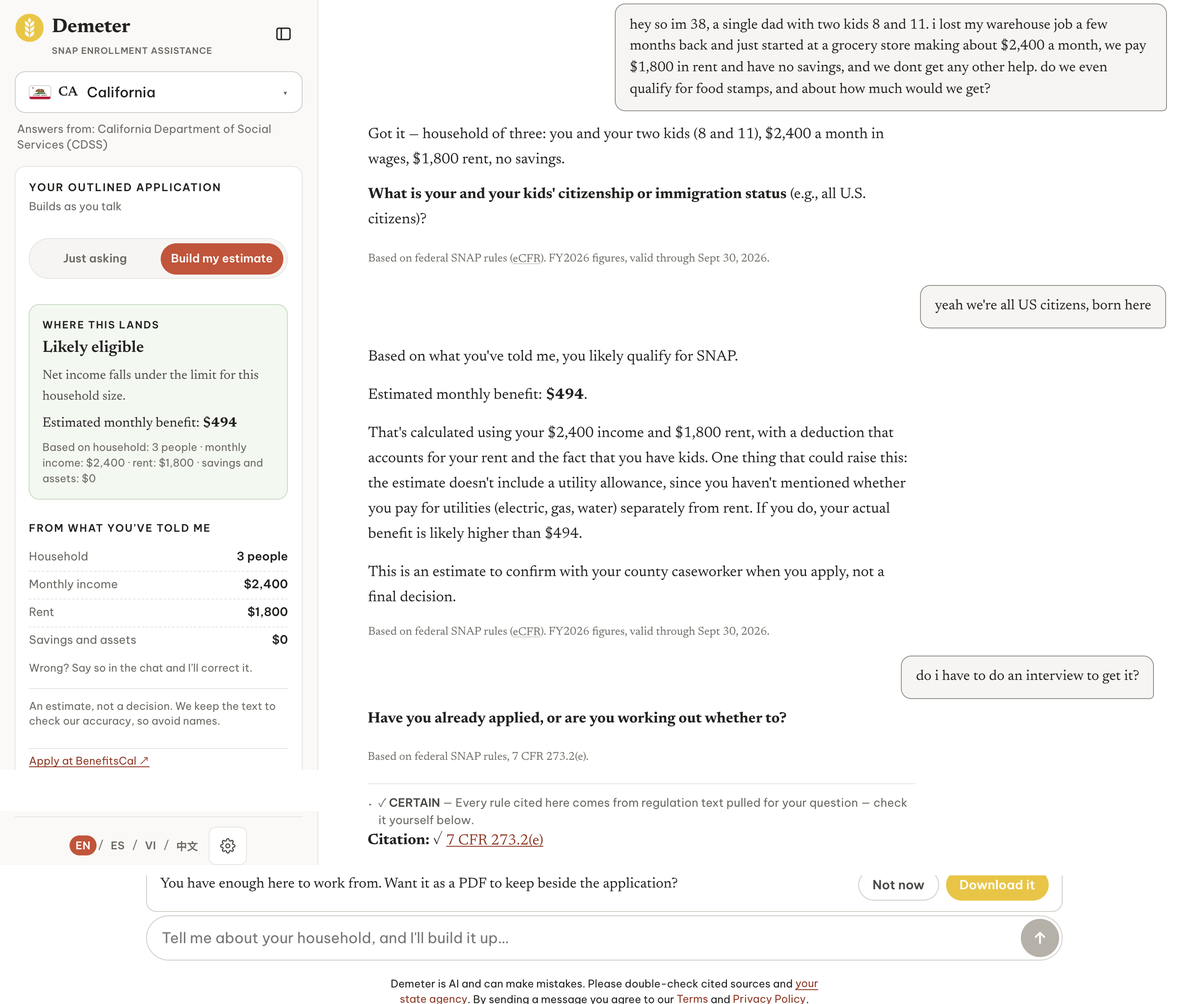
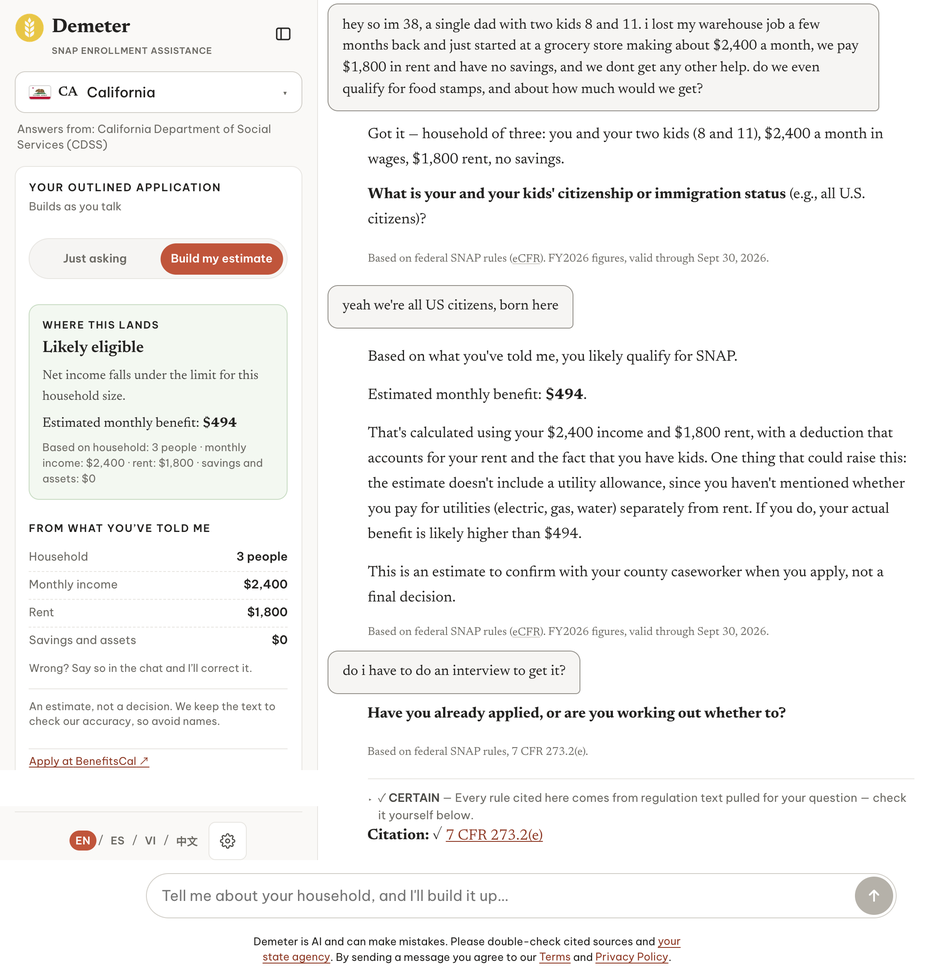
style(cra-artifact): copy + layout pass across all four pages; tighten page-3 demo
Page 1: bigger PUMA bar labels, larger/darker locator map, breathing room
under the stat block; SNAP explainer header carries the full program name;
"SNAP enrollment's impact on household finances".
Page 2: fold the thesis into "The program."; "Why Civica" -> "Why these
numbers"; pooled attribution reads pro rata (not "double-counted"); point
Documentation at the page-4 sample.
Page 3: head "The product, as delivered" -> "The assistant at work"; drop
"not a general chatbot"; Harvard/Baker affiliation reworded. Recompose the
demo: PDF-offer bubble removed, user bubbles left-aligned so the transcript
reads straight down, empty right column cropped out (input box kept via an
interior splice, disclaimer re-centred). Drop the "Answered plainly" legend
item (8 left), shrink the QR, and grow the demo to fill more of the column.
Page 4: "sample & methodology"; external table border; Baker-grant
assumption note (N=800); vary the Measurement sub-heads; add a "Reconciled
to a federal series" methodology bullet; Reporting names the CRA investment
test. Refit page-4 spacing after the added content.

diff --git a/tools/cra-artifact/templates/artifact.html b/tools/cra-artifact/templates/artifact.html
@@ -47,12 +47,12 @@
   table.core { width:100%; border-collapse:collapse; font-variant-numeric:tabular-nums; }
   table.core caption { text-align:left; }
   .core-cap { font-size:7.6pt; letter-spacing:.11em; text-transform:uppercase; font-weight:600; color:var(--muted); margin-bottom:4px; }
-  table.core td { padding:6px 2px; border-bottom:1px solid var(--rule); vertical-align:baseline; }
+  table.core td { padding:11px 2px; border-bottom:1px solid var(--rule); vertical-align:baseline; }
   table.core tr:last-child td { border-bottom:none; }
   table.core td.k { font-size:9.5pt; color:var(--body); white-space:nowrap; }
   table.core td.v { text-align:right; font-family:'Newsreader',serif; font-size:14pt; font-weight:600; color:var(--ink); white-space:nowrap; padding-left:8px; }
   table.core td.v small { font-family:'Be Vietnam Pro',sans-serif; font-size:8pt; font-weight:500; color:var(--muted); display:block; margin-top:1px; }
-  table.core tr.ask td { border-top:2px solid var(--accent); padding-top:9px; }
+  table.core tr.ask td { border-top:2px solid var(--accent); padding-top:15px; }
   table.core tr.ask td.k { color:var(--accent-deep); font-weight:600; text-transform:uppercase; letter-spacing:.06em; font-size:8.4pt; white-space:normal; padding-right:10px; }
   table.core tr.ask td.v { color:var(--accent-deep); font-size:18.5pt; }
   /* per-county unmet-need breakdown (replaces the flat AA choropleth):
@@ -72,7 +72,7 @@
   .geomap svg { width:100%; height:auto; display:block; }
   .geo-bars svg { width:100%; height:auto; display:block; }
   .geo-loc { display:flex; align-items:center; gap:7px; margin-top:5px; }
-  .geo-loc svg { width:124px; height:auto; flex:none; }
+  .geo-loc svg { width:150px; height:auto; flex:none; }
   .geo-loc span { font-size:6.6pt; line-height:1.35; color:var(--muted); }
   .geo-src { font-size:6.6pt; line-height:1.4; color:var(--muted); margin-top:5px; }
   /* Inside .aa-context the CDSS quotes are a sub-part of the geographic-focus
@@ -144,41 +144,41 @@
 
   /* ---------- Page 3—appendix (PROJECTED sample + methodology) ---------- */
   .chip { display:inline-block; background:var(--accent); color:#fff; font-size:8pt; font-weight:600; letter-spacing:.08em; padding:3px 9px; border-radius:2px; text-transform:uppercase; vertical-align:middle; margin-left:8px; }
-  .projected-wrap { position:relative; margin-top:15px; }
+  .projected-wrap { position:relative; margin-top:10px; }
   /* projected sample table header reads as a tinted band; the "· projected"
      marker lives in the header row rather than a diagonal wash over the numbers */
   table.report thead th { background:rgba(192,85,59,.09); }
-  table.report { width:100%; border-collapse:collapse; font-variant-numeric:tabular-nums; }
+  table.report { width:100%; border-collapse:collapse; font-variant-numeric:tabular-nums; border:1px solid var(--rule-strong); }
   table.report caption { text-align:left; font-size:8.4pt; color:var(--muted); margin-bottom:6px; caption-side:top; line-height:1.4; text-wrap:pretty; }
-  .funnel-note { font-size:8.8pt; line-height:1.4; color:var(--ink); font-weight:500; margin-top:8px; }
-  table.report th { background:var(--tint); border-bottom:2px solid var(--rule-strong); font-size:8.4pt; font-weight:600; text-align:right; padding:6.5px 9px; color:var(--ink); }
+  .funnel-note { font-size:8.8pt; line-height:1.4; color:var(--ink); font-weight:500; margin-top:5px; }
+  table.report th { background:var(--tint); border-bottom:2px solid var(--rule-strong); font-size:8.4pt; font-weight:600; text-align:right; padding:5px 9px; color:var(--ink); }
   table.report th:first-child { text-align:left; }
-  table.report td { border-bottom:1px solid var(--rule); font-size:8.8pt; text-align:right; padding:6px 9px; }
+  table.report td { border-bottom:1px solid var(--rule); font-size:8.8pt; text-align:right; padding:4.4px 9px; }
   table.report td:first-child { text-align:left; color:var(--body); }
   table.report tbody tr:not(.band) td:first-child { padding-left:20px; }
-  table.report tr.band td { background:var(--tint); font-size:7.2pt; letter-spacing:.07em; text-transform:uppercase; text-align:left; color:var(--muted); font-weight:600; padding:3.4px 9px; }
+  table.report tr.band td { background:var(--tint); font-size:7.2pt; letter-spacing:.07em; text-transform:uppercase; text-align:left; color:var(--muted); font-weight:600; padding:2.4px 9px; }
   table.report tr.key td { font-weight:600; color:var(--ink); }
-  .repnote { font-size:7.8pt; color:var(--body); margin-top:7px; line-height:1.4; max-width:6.8in; }
-  .appx { display:flex; gap:.34in; margin-top:16px; }
+  .repnote { font-size:7.8pt; color:var(--body); margin-top:5px; line-height:1.38; max-width:6.8in; }
+  .appx { display:flex; gap:.34in; margin-top:8px; }
   .appx .col { flex:1; }
-  .appx h3 { font-family:'Newsreader',serif; font-size:11pt; font-weight:600; color:var(--ink); margin:0 0 5px; }
-  .appx h3.n2 { margin-top:11px; }
+  .appx h3 { font-family:'Newsreader',serif; font-size:11pt; font-weight:600; color:var(--ink); margin:0 0 3px; }
+  .appx h3.n2 { margin-top:6px; }
   /* text-wrap:pretty keeps the last line of each layer bullet from stranding a
      single word (the "one-word bleed"); the renderer rebalances the tail. */
-  .appx p, .appx li { font-size:8.1pt; line-height:1.5; color:var(--body); text-wrap:pretty; }
-  .appx ul { list-style:none; margin-top:5px; }
-  .appx li { margin-top:4px; padding-left:10px; position:relative; }
+  .appx p, .appx li { font-size:8.1pt; line-height:1.42; color:var(--body); text-wrap:pretty; }
+  .appx ul { list-style:none; margin-top:3px; }
+  .appx li { margin-top:2.5px; padding-left:10px; position:relative; }
   .appx li::before { content:""; position:absolute; left:0; top:.55em; width:4px; height:4px; background:var(--accent); border-radius:50%; }
   /* Plain framed callout (matches .crafile), not a left-accent card—the
      colored-left-rail card is a DEMETER-DESIGN AI-slop pattern. */
-  .disclose { border:1px solid var(--rule-strong); border-radius:2px; background:var(--tint); padding:9px 12px; font-size:8.1pt; line-height:1.38; color:var(--body); margin-top:12px; text-wrap:pretty; }
+  .disclose { border:1px solid var(--rule-strong); border-radius:2px; background:var(--tint); padding:7px 12px; font-size:8.1pt; line-height:1.38; color:var(--body); margin-top:8px; text-wrap:pretty; }
   .disclose strong { color:var(--ink); }
   /* Page 3—the platform, as built (annotated real screenshot) */
-  .platform-hero { margin-top:5px; text-align:center; }
-  /* The composited demo is sized by HEIGHT so a taller three-turn capture cannot
-     overflow the page; width follows the aspect ratio (near the full text
-     column). Caption and legend stay in the column. */
-  .chatshot { position:relative; display:inline-block; height:5.4in; aspect-ratio:[[chat_aspect]]; margin:0 auto; vertical-align:top; max-width:100%; }
+  .platform-hero { margin-top:6px; text-align:center; }
+  /* The composited demo (empty right space cropped out) is sized by HEIGHT so it
+     cannot overflow the page; width follows the aspect ratio and now fills the
+     text column, bleeding slightly past it. Caption and legend below. */
+  .chatshot { position:relative; display:inline-block; height:6.1in; aspect-ratio:[[chat_aspect]]; margin:0 auto; vertical-align:top; max-width:100%; }
   .chatshot > img { width:100%; height:100%; display:block; border:1px solid var(--rule-strong); border-radius:5px; object-fit:fill; }
   /* Numbered markers sit ON the screenshot; the legend below explains the intent.
      A crisp ring (border only—no blurred shadow, which a PDF rasterizes as a
@@ -187,9 +187,9 @@
     border-radius:50%; background:var(--wheat); color:#3a2a08;
     font:700 10.5px/19px 'Be Vietnam Pro',sans-serif; text-align:center;
     border:1.5px solid var(--accent-deep); }
-  .chatshot-cap { font-size:7pt; color:var(--muted); margin-top:5px; text-align:center; }
+  .chatshot-cap { font-size:7pt; color:var(--muted); margin-top:4px; text-align:center; }
   .chat-legend { display:grid; grid-template-columns:1fr 1fr; gap:2px 18px; margin-top:5px; }
-  .leg { display:flex; gap:6px; font-size:6.9pt; line-height:1.22; color:var(--body); break-inside:avoid; }
+  .leg { display:flex; gap:6px; font-size:6.8pt; line-height:1.2; color:var(--body); break-inside:avoid; }
   .leg-n { flex:0 0 auto; width:12px; height:12px; margin-top:1px; border-radius:50%;
     background:var(--wheat); color:#3a2a08; font:700 7.5px/12px 'Be Vietnam Pro',sans-serif; text-align:center; }
   .leg-t b { color:var(--accent-deep); }
@@ -199,8 +199,8 @@
   .ev-text p:last-child { margin-bottom:0; }
   .ev-text strong { color:var(--ink); }
   .ev-side { flex:1; min-width:0; }
-  .qrbox { display:flex; align-items:center; gap:9px; padding:7px 8px; border:1px solid var(--rule-strong); border-radius:3px; background:var(--tint); }
-  .qrbox .qr { width:62px; flex:none; }
+  .qrbox { display:flex; align-items:center; gap:8px; padding:6px 8px; border:1px solid var(--rule-strong); border-radius:3px; background:var(--tint); }
+  .qrbox .qr { width:50px; flex:none; }
   .qrbox .qr svg { width:100%; height:auto; display:block; }
   .qr-txt { font-size:7.8pt; line-height:1.4; color:var(--body); }
   .qr-txt strong { color:var(--ink); }
@@ -230,11 +230,11 @@
       <div class="colbrk">[[aa_geo_visual]]</div>
     </div>
     <div class="why">
-      <div class="why-cap">What SNAP is</div>
-      <p>SNAP&mdash;the Supplemental Nutrition Assistance Program, commonly known as food stamps&mdash;is monthly grocery money for low- and moderate-income households. Most people who qualify but never enroll are stopped by the process, not the rules. Civica's free assistant answers their questions in plain language and guides them through the application.</p>
+      <div class="why-cap">What is the Supplemental Nutrition Assistance Program (SNAP)?</div>
+      <p>SNAP, commonly known as food stamps, is monthly grocery money for low- and moderate-income households. Most people who qualify but never enroll are stopped by the process, not the rules. Civica's free assistant answers their questions in plain language and guides them through the application.</p>
     </div>
     <div class="research">
-      <div class="rlabel">SNAP access and household finances</div>
+      <div class="rlabel">SNAP enrollment's impact on household finances</div>
       <div class="rstats">
         <div><b class="serif">$2,436</b><span>less credit-card debt by year three (down 51%)</span></div>
         <div><b class="serif">10.1 pts</b><span>lower likelihood of a delinquent account (off a 41% baseline)</span></div>
@@ -251,18 +251,17 @@
 <div class="page">
   <div class="letterhead"><div class="org">[[org_name]] · [[program_name]]</div><div class="doc">Prepared for [[bank_name]] · [[prepared_date]]</div></div>
   <h2 class="pagehead">A benefits-access pilot for [[bank_name]]</h2>
-  <div class="thesis">It combines the reach of a media campaign with the accuracy of a one-on-one assister, and every answer traces to the governing rule.</div>
-  <div class="body-block"><b class="run-in">The program.</b> Civica provides free [[program_ref]] application assistance across your assessment area: the same service a county-designated assister or food-bank navigator provides. Geo-targeted outreach invites residents in the highest-need tracts: "You may qualify for [[program_ref]]. Check in 5 minutes." The assistant answers from [[state_name]]'s SNAP rules and guides them to a submitted, accurate application. Because its marginal cost is near zero, a single grant covers the whole assessment area.
+  <div class="body-block" style="margin-top:12px;"><b class="run-in">The program.</b> It combines the reach of a media campaign with the accuracy of a one-on-one assister, and every answer traces to the governing rule. Civica provides free [[program_ref]] application assistance across your assessment area: the same service a county-designated assister or food-bank navigator provides. Geo-targeted outreach invites residents in the highest-need tracts: "You may qualify for [[program_ref]]. Check in 5 minutes." The assistant answers from [[state_name]]'s SNAP rules and guides them to a submitted, accurate application. Because its marginal cost is near zero, a single grant covers the whole assessment area.
   </div>
-  <div class="provenance"><b>Why Civica.</b> [[credibility_line]]</div>
+  <div class="provenance"><b>Why these numbers.</b> [[credibility_line]]</div>
   [[bank_specific_block]]
   <div class="crafile">
     <div class="crafile-cap">For [[bank_name]]'s community-reinvestment file</div>
     <table class="cra-dl">
       <tr><td class="l">Activity</td><td>[[program_ref]] benefits-access outreach and application assistance in your assessment area—a community-development activity (community services targeted to LMI individuals under [[cra_rule_cite]]). Funded as a grant, it is a qualified community-development investment, assessed under the investment test.</td></tr>
       <tr><td class="l">Beneficiaries</td><td>Low- and moderate-income residents. The federal Interagency Q&amp;A names USDA's Supplemental Nutrition Assistance programs as an accepted LMI proxy (Q&amp;A §&#8239;__.12(g)(2)&#8211;1; 81 FR 48506, 48526, July 25, 2016), so no household-level income documentation is required.</td></tr>
-      <tr><td class="l">Geographic nexus</td><td>Delivered and measured within [[bank_name]]'s delineated assessment area, documented by county. Where banks share geography, we document a per-tract allocation, so nothing is double-counted.</td></tr>
-      <tr><td class="l">Documentation</td><td>A quarterly report of ad delivery, eligibility checks, and applications started and submitted (all by county), plus a one-page qualification memo citing the CRA category and the governing rule, and an annual exam-file summary. Prepared for your file.</td></tr>
+      <tr><td class="l">Geographic nexus</td><td>Delivered and measured within [[bank_name]]'s delineated assessment area, documented by county. Where banks share geography, campaign activity is allocated pro rata by county, so each institution's cumulative credit reflects only its share.</td></tr>
+      <tr><td class="l">Documentation</td><td>A quarterly report of ad delivery, eligibility checks, and applications started and submitted (all by county; the sample on page 4 shows the format), plus a one-page qualification memo citing the CRA category and the governing rule, and an annual exam-file summary. Prepared for your file.</td></tr>
     </table>
     <div class="cra-foot">Treatment under the CRA framework remains subject to your institution's compliance team and examiners.</div>
   </div>
@@ -281,16 +280,16 @@
 <!-- PAGE 3—the platform, as built (product evidence) -->
 <div class="page">
   <div class="letterhead"><div class="org">[[org_name]] · [[program_name]]</div><div class="doc">Prepared for [[bank_name]] · [[prepared_date]]</div></div>
-  <h2 class="pagehead" style="margin-top:22px;">The product, as delivered</h2>
-  <div class="thesis" style="margin-top:8px;">The working system behind the pilot&mdash;a rules-grounded assistant, not a general chatbot.</div>
-  <div class="evidence-foot" style="border-top:none; margin-top:9px; padding-top:0;">
+  <h2 class="pagehead" style="margin-top:14px;">The assistant at work</h2>
+  <div class="thesis" style="margin-top:6px;">The working system behind the pilot&mdash;a rules-grounded assistant.</div>
+  <div class="evidence-foot" style="border-top:none; margin-top:7px; padding-top:0;">
     <div class="ev-text">
-      <p><strong>Built-in limits.</strong> Makes no eligibility determination&mdash;routes decisions to the county or 2-1-1. Redacts personal data before it leaves the system; never asks for an SSN, DOB, or account number; carries crisis and DV lines. Resident data is never shared with the bank, no products are marketed, and question text auto-purges (7/30 days).</p>
-      <p><strong>Independently checkable.</strong> A graded ~600-question set across all 53 jurisdictions (adversarial and crisis cases included), re-run on every rules change, and offered to your compliance team to run themselves. Corpus: eCFR plus 53 packs, dated provenance[[me_audit_clause]]; 120-day refresh.</p>
+      <p><strong>Built-in limits.</strong> Makes no eligibility determination&mdash;routes decisions to the county or 2-1-1. Never asks for an SSN, DOB, or account number; carries crisis and DV lines. Nothing is shared with the bank, and question text auto-purges (7/30 days).</p>
+      <p><strong>Independently checkable.</strong> A graded ~600-question set across all 53 jurisdictions (adversarial and crisis cases included), re-run on every rules change and open to your compliance team. Corpus: eCFR plus 53 packs, dated provenance[[me_audit_clause]]; 120-day refresh.</p>
     </div>
     <div class="ev-side">
       <div class="qrbox"><div class="qr">[[qr_chat_svg]]</div><div class="qr-txt"><strong>Try it.</strong> Scan, or visit<br><span class="url">civica-applicant.vercel.app/chat</span></div></div>
-      <div class="affil">Civica was accepted into the Harvard Innovation Labs incubator, where the initial study was conducted.</div>
+      <div class="affil">Civica is part of the Harvard Innovation Labs incubator; the impact study behind these figures was conducted in Fall 2026 under a Baker grant.</div>
     </div>
   </div>
   <div class="platform-hero">
@@ -307,12 +306,12 @@
 <!-- PAGE 4—appendix: PROJECTED sample report + methodology (detach as needed) -->
 <div class="page">
   <div class="letterhead"><div class="org">[[org_name]] · [[program_name]]</div><div class="doc">Prepared for [[bank_name]] · [[prepared_date]]</div></div>
-  <div class="eyebrow" style="margin-top:20px;">Appendix for your [[regulator]] examination · sample + methodology</div>
+  <div class="eyebrow" style="margin-top:20px;">Appendix for your [[regulator]] examination · sample &amp; methodology</div>
   <h2 class="pagehead" style="margin-top:6px;">Sample quarterly report <span class="chip">Projected · not measured</span></h2>
   <div class="projwarn">These are projections. A funded pilot replaces them with measured values.</div>
   <div class="projected-wrap">
     <table class="report">
-      <caption>A single calendar quarter at $[[ask_fmt]] across [[aa_counties_list]], conservative and mid-range scenarios.</caption>
+      <caption>A single calendar quarter at $[[ask_fmt]] across [[aa_counties_list]].</caption>
       <thead><tr><th>Quarterly outcome</th><th>Conservative</th><th>Mid-range</th></tr></thead>
       <tbody>
         <tr class="band"><td colspan="3">Delivery &amp; service · observed in-product</td></tr>
@@ -330,7 +329,7 @@
       </tbody>
     </table>
     <div class="funnel-note">[[funnel_note]]</div>
-    <div class="repnote">Assumption set: version [[assumptions_version]].</div>
+    <div class="repnote">Assumptions are drawn from Civica's Baker-grant impact study (N=800): applicants who exchanged five or more queries submitted an application at ~74% and were approved at ~68%&mdash;a positive correlation between assistant engagement and completion. Set version [[assumptions_version]].</div>
   </div>
   <div class="appx">
     <div class="col">
@@ -338,14 +337,15 @@
       <ul>
         <li><strong>The engine:</strong> the same assistant shown on page 3. Every number below is a recorded system event from it.</li>
         <li><strong>What we count:</strong> ad delivery reconciled to invoices, plus sessions, eligibility checks, and applications started and submitted—all recorded system events. This alone carries the CRA documentation.</li>
-        <li><strong>What we ask afterward:</strong> an opt-in 30/60-day check-in; we disclose the response rate and report outcomes only for those who respond, without extrapolating.</li>
-        <li><strong>What we check ourselves against:</strong> the state's published county caseload for direction rather than attribution; even at pilot scale, a staggered tract rollout so the quarter yields an attributable estimate, not just a funnel count.</li>
+        <li><strong>The follow-up:</strong> an opt-in 30/60-day check-in; we disclose the response rate and report outcomes only for those who respond, without extrapolating.</li>
+        <li><strong>The benchmark:</strong> the state's published county caseload for direction rather than attribution; even at pilot scale, a staggered tract rollout so the quarter yields an attributable estimate, not just a funnel count.</li>
       </ul>
     </div>
     <div class="col">
       <h3>Methodology &amp; disclosures</h3>
       <ul>
         <li>[[method_bullet]]</li>
+        <li><strong>Reconciled to a federal series:</strong> the eligible-not-enrolled count is held to USDA's published participation rate (81%, FY2022), so the page-1 headline tracks an independent federal figure within ~1% rather than the model's raw non-enrollment rate.</li>
         <li><strong>Known bias, disclosed:</strong> a gross-income proxy and ACS under-reporting push the estimate <em>upward</em>, so read it as an upper range of unmet need.</li>
         <li>County estimates carry 1-Year ACS sampling uncertainty; the page-1 dollar range reflects household size, not a confidence interval.</li>
       </ul>
@@ -356,7 +356,7 @@
       </ul>
     </div>
   </div>
-  <div class="disclose"><strong>Reporting.</strong> Payment is never tied to enrollment counts, and you receive an auditable record of activity in your assessment area.</div>
+  <div class="disclose"><strong>Reporting.</strong> Payment is never tied to enrollment counts. You receive an auditable quarterly record of activity in your assessment area&mdash;documentation built to demonstrate a qualified community-development investment under the CRA investment test.</div>
   <div class="pagefoot">[[org_name]] · [[status_line]] · Contact: [[contact_name]], [[contact_email]][[contact_phone_line]] · Determination letter and full methodology available on request.</div>
   <div class="pagenum">4 / 4</div>
 </div>

diff --git a/tools/cra-artifact/src/generate.py b/tools/cra-artifact/src/generate.py
@@ -174,10 +174,10 @@ def build_values(bank, assumptions, org, metrics, meta):
     state = bank.get("state", "CA")
     if state == "CA":
         credibility_line = (
-            "The findings here are Civica's own: a reproducible model of 2023 "
-            "federal ACS microdata, and a review of 38 California county CalFresh "
-            "Management Evaluation reports (FFY 2024–2025), obtained by "
-            "public-records request."
+            "The need and access figures here are Civica's own work: a "
+            "reproducible model of 2023 federal ACS microdata, and a review of "
+            "38 California county CalFresh Management Evaluation reports "
+            "(FFY 2024–2025), obtained by public-records request."
         )
     else:
         credibility_line = (
@@ -209,22 +209,24 @@ def build_values(bank, assumptions, org, metrics, meta):
     # daily question cap was reached); both render correctly because the aspect
     # ratio and the overlay are state-specific.
     if state == "CA":
-        chat_aspect = "2760/2311"
+        chat_aspect = "2150/2225"
         # Numbered markers sit ON the screenshot; the legend beneath it explains
         # the INTENT behind each simple feature (not a caption of what's shown).
         # (x,y) is the marker centre in % of the image box, ordered top-to-bottom
         # so the numbers ascend as the eye moves down the capture. Small numbers
         # avoid the leader-line/label overlap of earlier versions.
+        # Bubbles read straight down (user bubbles left-aligned), the PDF-offer
+        # row is gone, and the empty right column is cropped out: the image is a
+        # tight 2150x2225. Marker x% are relative to the 2150 width.
         _marks = [
-            (97, 1),     # 1  the messy question bubble (top-right corner)
-            (24, 9),     # 2  state selector (dropdown caret)
-            (74, 13),    # 3  the plain-language answer
-            (25, 42),    # 4  WHERE THIS LANDS—likely eligible + $494
-            (24, 50),    # 5  FROM WHAT YOU'VE TOLD ME—the running record
-            (58, 68),    # 6  the dated eCFR source line
-            (70, 83),    # 7  the CERTAIN badge + citation
-            (23, 83),    # 8  right of the four languages
-            (52, 93),    # 9  the grayed chat-bar prompt
+            (94, 2),     # 1  the messy question bubble (top)
+            (31, 9),     # 2  state selector (dropdown caret)
+            (31, 44),    # 3  WHERE THIS LANDS—likely eligible + $494
+            (31, 59),    # 4  FROM WHAT YOU'VE TOLD ME—the running record
+            (68, 66),    # 5  the dated eCFR source line
+            (90, 85),    # 6  the CERTAIN badge + citation
+            (30, 88),    # 7  right of the four languages
+            (62, 94),    # 8  the grayed chat-bar prompt
         ]
         chat_overlay = "".join(
             f'<div class="cmark" style="left:{x}%;top:{y}%">{i + 1}</div>'
@@ -232,7 +234,6 @@ def build_values(bank, assumptions, org, metrics, meta):
         _legend = [
             ("A messy, real question", "A fixed form can’t hold an edge case like this; plain-language input can, so people don’t self-select out."),
             ("State-aware", "SNAP runs through 53 state and territory agencies with different rules; here it answers from California’s (CDSS)."),
-            ("Answered plainly", "The answer explains the reasoning, not just yes or no—the part of a caseworker’s job that most often gets skipped."),
             ("A live estimate", "The outline fills in from what the applicant says and lands on a plausible number, so someone unsure can see the stakes before the form."),
             ("From what you’ve told me", "It keeps a running record of the conversation and shows it back, so nothing is re-asked and the applicant can correct it."),
             ("Dated and sourced", "Every answer footers the rule set (eCFR) and the fiscal year it is valid through, so a reviewer can check it and it can’t silently go stale."),

diff --git a/tools/cra-artifact/src/pumamap.py b/tools/cra-artifact/src/pumamap.py
@@ -112,7 +112,7 @@ class PumaMapError(Exception):
 
 INK = "#232220"             # bar labels (matches the artifact ink token)
 MUTED = "#54524B"           # bar value annotations
-LOC_OFF = "#E9E7E2"         # non-AA counties in the small locator
+LOC_OFF = "#D6D3CC"         # non-AA counties in the small locator
 LOC_STROKE = "#ffffff"      # hairlines between locator counties
 
 
@@ -153,7 +153,7 @@ def _short_name(raw: str) -> str:
     s = (s.replace("Los Angeles", "LA")
           .replace(" Cities", "").replace(" City", "")
           .replace(" County", " Co.").strip())
-    return s if len(s) <= 34 else s[:33] + "…"
+    return s if len(s) <= 30 else s[:29] + "…"
 
 
 def ranked_bar_svg(aa_counties, state, reconcile_rate=None,
@@ -187,20 +187,20 @@ def ranked_bar_svg(aa_counties, state, reconcile_rate=None,
     pad_t, pad_b, pad_r = 6, 4, 4
     row_h = (height - pad_t - pad_b) / len(rows)
     bar_h = min(row_h * 0.46, 12)
-    bar_x = width * 0.52
+    bar_x = width * 0.55
     bar_max = width - bar_x - pad_r - 42   # room for the value label at the end
     out = []
     for i, (nm, v) in enumerate(rows):
         cy = pad_t + i * row_h + row_h / 2
         bw = max(1.5, bar_max * (v / maxv))
         out.append(
-            f'<text x="0" y="{cy + 3.1:.1f}" font-size="9" fill="{INK}" '
+            f'<text x="0" y="{cy + 3.6:.1f}" font-size="10.6" fill="{INK}" '
             f"font-family=\"'Be Vietnam Pro',sans-serif\">{_esc(_short_name(nm))}</text>")
         out.append(
             f'<rect x="{bar_x:.1f}" y="{cy - bar_h / 2:.1f}" width="{bw:.1f}" '
             f'height="{bar_h:.1f}" rx="1.5" fill="{ACCENT}" class="puma-bar"/>')
         out.append(
-            f'<text x="{bar_x + bw + 4:.1f}" y="{cy + 3.1:.1f}" font-size="8.2" '
+            f'<text x="{bar_x + bw + 4:.1f}" y="{cy + 3.6:.1f}" font-size="9.4" '
             f'fill="{MUTED}" font-family="\'Be Vietnam Pro\',sans-serif">'
             f'{_fmt_k(v)}</text>')
     return (f'<svg viewBox="0 0 {width} {height}" xmlns="http://www.w3.org/2000/svg" '
